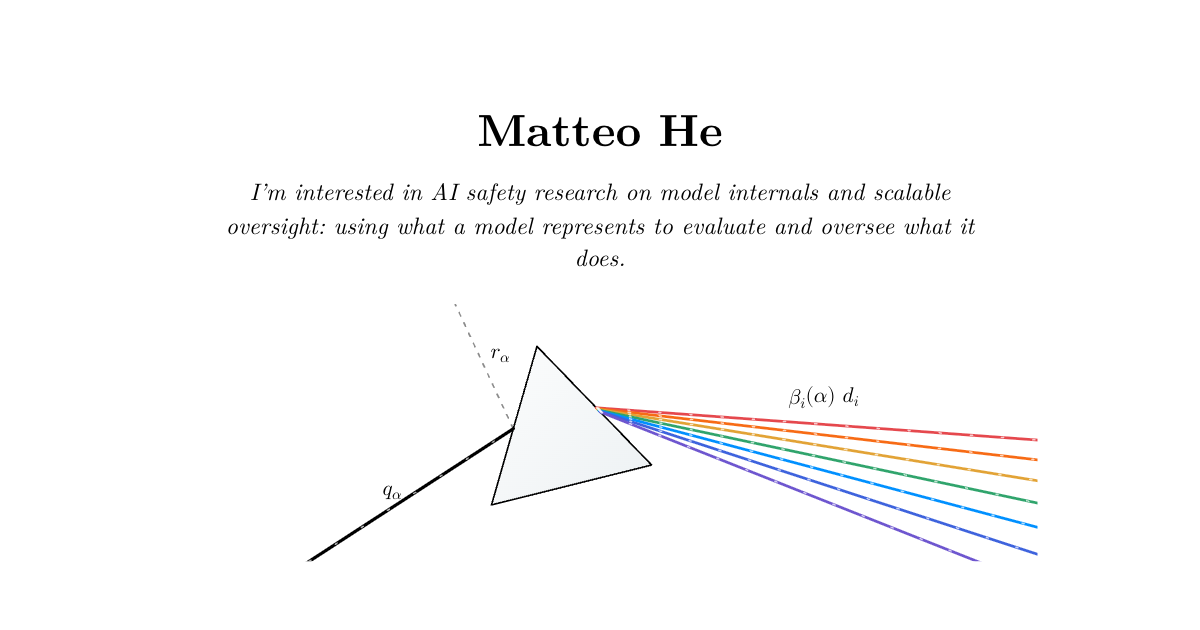
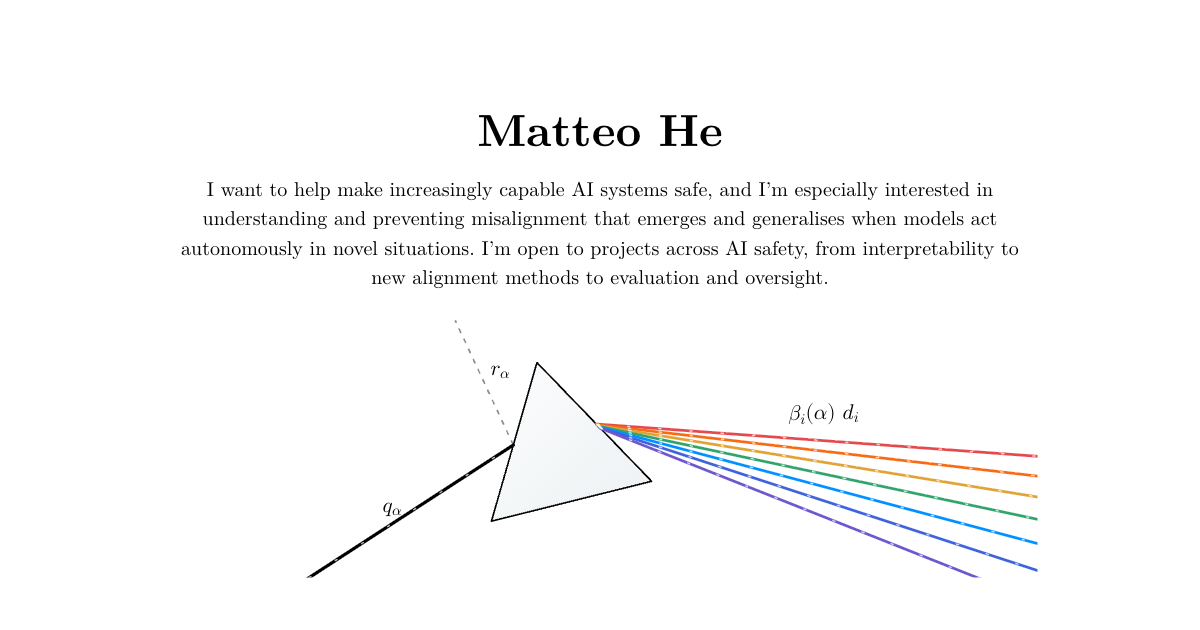
feat(home): open-ended interests statement in the intro paragraphs

Changed region(s): [[0.1542, 0.2714, 0.8325, 0.4524], [0.2467, 0.5429, 0.8633, 0.9048]]

diff --git a/index.html b/index.html
@@ -20,7 +20,7 @@
   <meta property="og:image" content="https://matteohe.com/share.png">
   <meta property="og:image:width" content="1200">
   <meta property="og:image:height" content="630">
-  <meta property="og:image:alt" content="Matteo He: interested in AI safety research on model internals and scalable oversight. A prism splits a readout query into feature contributions.">
+  <meta property="og:image:alt" content="Matteo He: working to help make increasingly capable AI systems safe, especially by understanding and preventing misalignment that emerges and generalises when models act autonomously. A prism splits a readout query into feature contributions.">
   <meta name="twitter:card" content="summary_large_image">
   <meta name="twitter:image" content="https://matteohe.com/share.png">
   <link rel="preload" href="/fonts/lmroman10-regular.woff2" as="font" type="font/woff2" crossorigin>
@@ -65,9 +65,8 @@
     <main id="main">
       <section class="intro" aria-labelledby="name">
         <div class="title-line"><h1 id="name">Matteo He</h1><a class="footnote-ref" href="#correspondence" aria-label="Footnote">∗</a></div>
-        <p class="research-statement">I’m interested in AI safety research on model internals and scalable oversight: using what a model represents to evaluate and oversee what it does.</p>
         <div class="abstract">
-          <h2 class="abstract-title">Abstract</h2>
+          <p class="research-statement">I want to help make increasingly capable AI systems safe, and I’m especially interested in understanding and preventing misalignment that emerges and generalises when models act autonomously in novel situations. I’m open to projects across AI safety, from interpretability to new alignment methods to evaluation and oversight.</p>
           <p>I completed an MPhil in Advanced Computer Science at Cambridge with Distinction. My dissertation studied how language models learn to turn internal information into predictions. The resulting first-author paper, <a href="#learning-to-read-out">Learning to Read Out</a>, was accepted to NeurIPS 2026.</p>
           <p>I’m seeking AI safety research fellowships and research scientist or research engineer roles. <a href="#contact">Get in touch →</a></p>
         </div>

diff --git a/src/paper.css b/src/paper.css
@@ -64,15 +64,7 @@ nav a {font-size:16px;}
 /* Title block */
 .intro {padding-top:46px;text-align:center;}
 h1 {font-size:36px;line-height:1.2;}
-.research-statement {
-  max-width:640px;
-  margin:14px auto 0;
-  font-size:19px;
-  font-style:italic;
-  line-height:1.4;
-}
 .abstract {margin:30px 42px 0;text-align:justify;hyphens:auto;}
-.abstract-title {font-size:16px;text-align:center;margin-bottom:6px;}
 .abstract p {font-size:16px;line-height:1.45;}
 .abstract p + p {margin-top:8px;}
 .profile-links {
@@ -298,7 +290,6 @@ dialog p {margin-top:12px;font-size:15px;}
 @media (max-width:640px) {
   .intro {padding-top:30px;}
   h1 {font-size:31px;}
-  .research-statement {font-size:18px;}
   .abstract {margin:26px 0 0;}
   /* Justified text leaves rivers in narrow columns */
   .abstract,.paper-body p,.entry-description p,.details-content p,.system-details p {text-align:left;}
